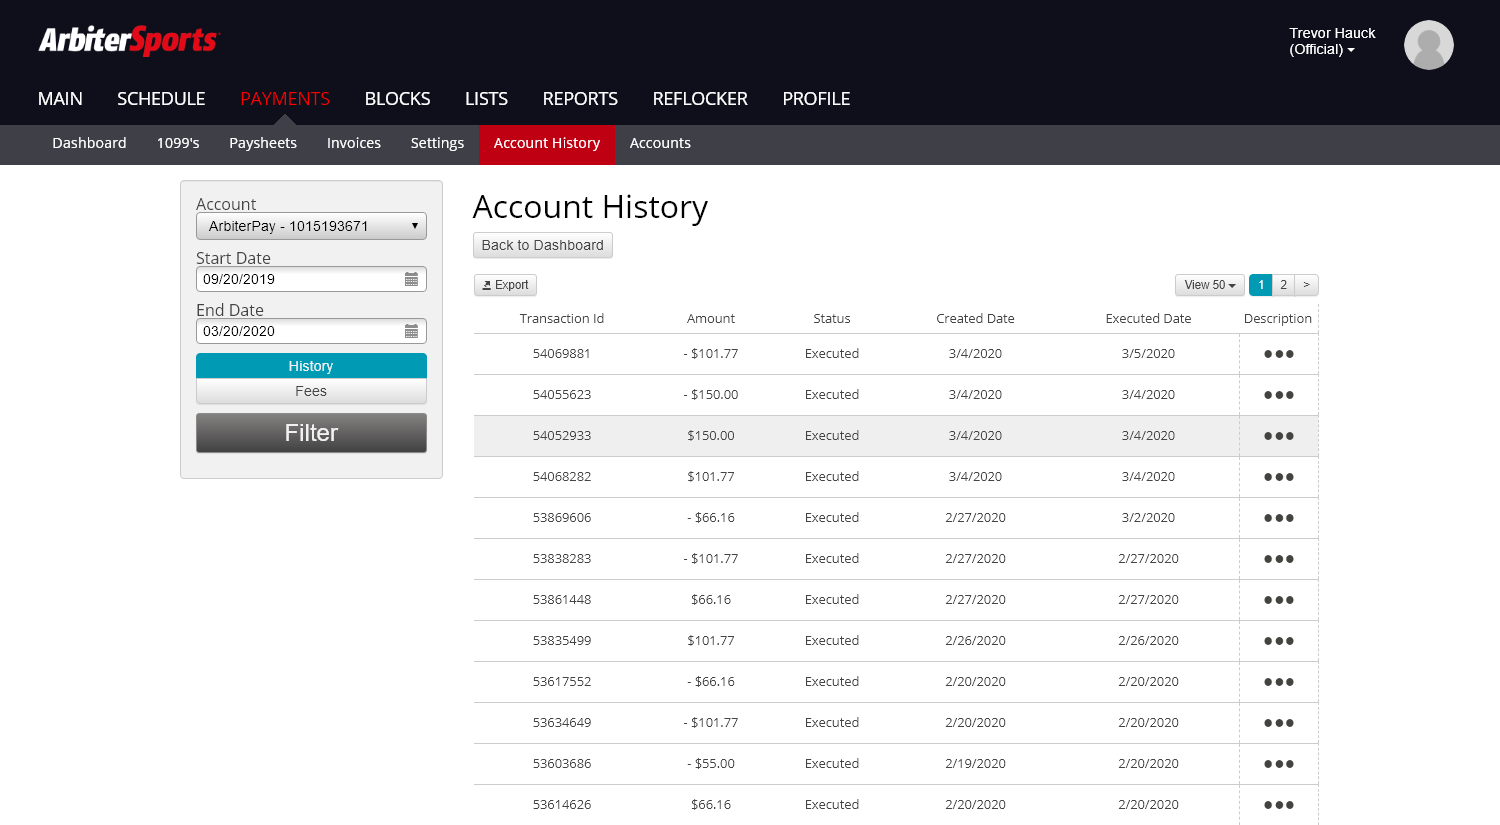
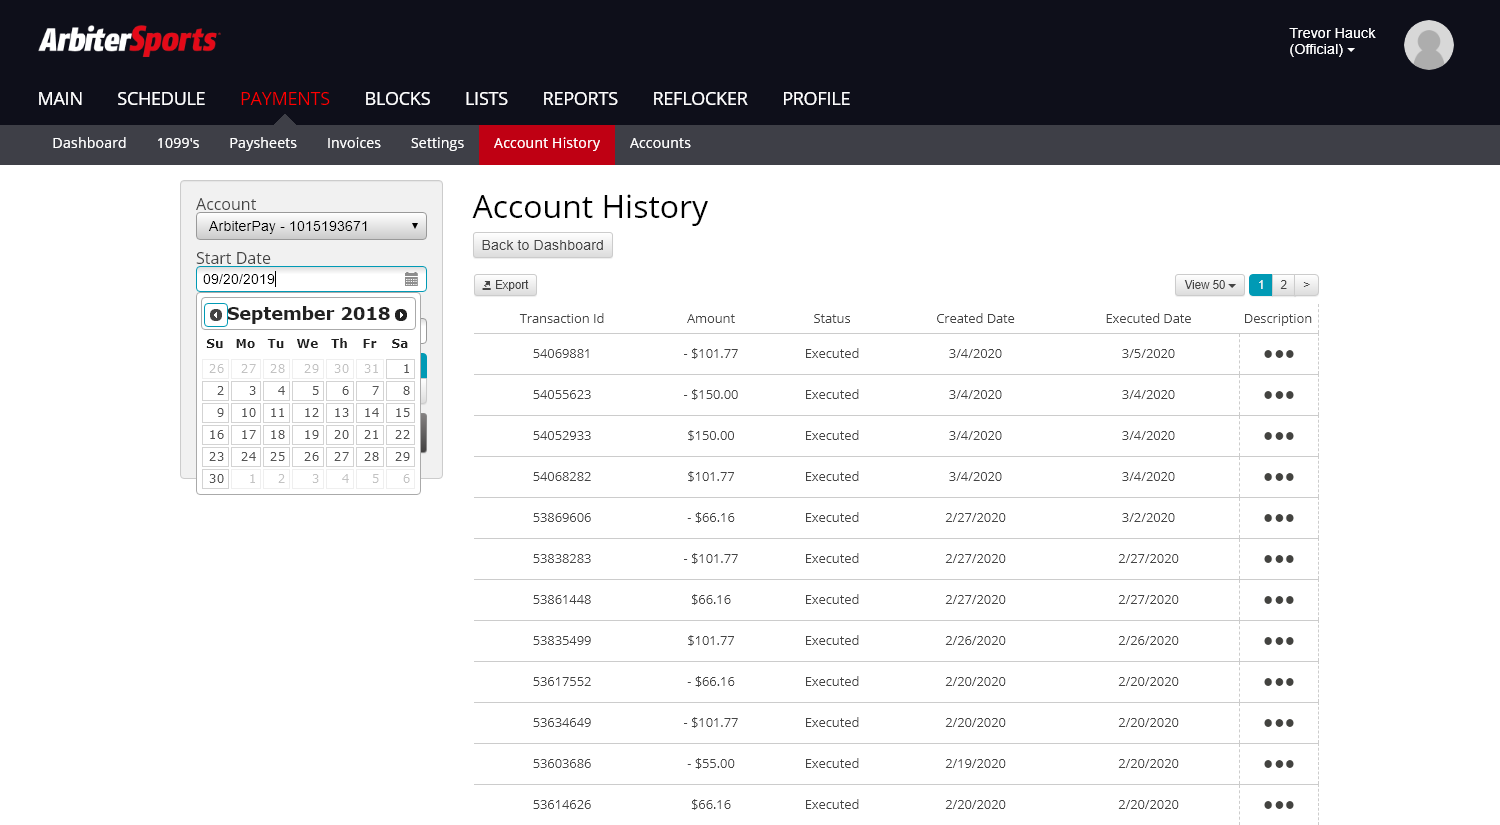
Iterates through every page in the payments. Updated all the games that were sent through the Arbiter as paid. Getting a parallel save error though, that will be fixed next push

Changed region(s): [[0.1227, 0.3333, 0.3067, 0.6061]]

diff --git a/server/src/routers/arbiter/payments.js b/server/src/routers/arbiter/payments.js
@@ -3,8 +3,6 @@ const router = new express.Router()
 const puppeteer = require('puppeteer')
 const Game = require('../../models/Game')
 const auth = require('../../middleware/auth')
-const addGamesFromArray = require('../../utils/addGamesFromArray')
-
 
 const parseHTML = async (html) => {
     let payData = html
@@ -33,21 +31,29 @@ const parseHTML = async (html) => {
         })
         // console.log(eachGame)
     }
-    eachPaymentArrOfObj = eachPaymentArrOfObj.filter((payment) => {
-        if(!payment.amount.includes('-')){
-            return payment
-        }
-    })
+    // eachPaymentArrOfObj = eachPaymentArrOfObj.filter((payment) => {
+    //     if(!payment.amount.includes('-')){
+    //         return payment
+    //     }
+    // })
     
     return eachPaymentArrOfObj
+}
+const trimHtmlData = async (html) => {
+    html = html.split('account-history-rows')
+    html = html.splice(1)
+    html = html[0].split('</tbody>').shift()
+    html = html.split('</td>').join('').split('<td>').join('').split('</tr>').join('').split('<tr class="child">').join('').split('<tr class="parent">').join('')
+    html = html.split('<td class="action"><i class="icon-more"></i>').join('').split('<td colspan="7">').join('').split(/\n/)
+    return html
 }
 
 const getArbiterPaymentData = async (email, pass) => {
     const browser = await puppeteer.launch({
-        // headless: false,
-        // args: [
-        //     '--window-size=1500,825'
-        // ]
+        headless: true,
+        args: [
+            '--window-size=1500,825'
+        ]
     })
     const page = await browser.newPage()
     await page.setViewport({
@@ -61,35 +67,78 @@ const getArbiterPaymentData = async (email, pass) => {
     await page.click('#txtPassword')
     await page.keyboard.type(pass)
     await page.click('#ctl00_ContentHolder_pgeSignIn_conSignIn_btnSignIn')
-    await page.content()
+    await page.waitFor(500)
     if(page.url() === 'https://www1.arbitersports.com/shared/signin/signin.aspx') {
         return { error: "Invalid Login"}
     }
     await page.waitFor(500)
     await page.click('#mobileAlertStayLink')
-    await page.screenshot({path: './screenshotb4.png'})
+    await page.waitFor(500)
+    // await page.screenshot({path: './screenshotb4.png'})
 
-    await page.content()
+    await page.waitFor(500)
     await page.click('#ctl00_ContentHolder_pgeDefault_conDefault_dgAccounts_ctl02_lblType2')
-    await page.content()
+    await page.waitFor(500)
     await page.goto('https://www1.arbitersports.com/arbiterone/arbiterpay/dashboard')
-    await page.content()
+    await page.waitFor(500)
     await page.goto('https://www1.arbitersports.com/ArbiterOne/ArbiterPay/AccountHistory')
-    await page.content()
-    await page.waitFor(750)
+    await page.waitFor(500)
+    await page.screenshot({path: './screenshotb4.png'})
     await page.click('.as_pageSizer > button:nth-child(1)')
     await page.waitFor(750)
     await page.click('.as_pageSizer > ul:nth-child(2) > li:nth-child(6) > a:nth-child(1)')
     await page.waitFor(500)
+
+    // SET TIME FRAME
+    await page.click('#filter-startdate')
+    await page.waitFor(300)
+    await page.click('.ui-icon-circle-triangle-w')
+    await page.click('.ui-icon-circle-triangle-w')
+    await page.click('.ui-icon-circle-triangle-w')
+    await page.click('.ui-icon-circle-triangle-w')
+    await page.click('.ui-icon-circle-triangle-w')
+    await page.click('.ui-icon-circle-triangle-w')
+    await page.click('.ui-icon-circle-triangle-w')
+    await page.click('.ui-icon-circle-triangle-w')
+    await page.click('.ui-icon-circle-triangle-w')
+    await page.click('.ui-icon-circle-triangle-w')
+    await page.click('.ui-icon-circle-triangle-w')
+    await page.click('.ui-icon-circle-triangle-w')
     await page.screenshot({path: './screenshot.png'})
+    await page.click('.ui-datepicker-calendar > tbody:nth-child(2) > tr:nth-child(1) > td:nth-child(7) > a:nth-child(1)')
+    await page.click('button.large.dark')
+    await page.waitFor(500)
 
     let response = await page.content()
-    response = response.split('account-history-rows')
-    response = response.splice(1)
-    response = response[0].split('</tbody>').shift()
-    response = response.split('</td>').join('').split('<td>').join('').split('</tr>').join('').split('<tr class="child">').join('').split('<tr class="parent">').join('')
-    response = response.split('<td class="action"><i class="icon-more"></i>').join('').split('<td colspan="7">').join('').split(/\n/)
-    let data = parseHTML(response)
+    let trimmedData = await trimHtmlData(response)
+    
+    // DATA BECOMES AN ARRAY OF OBJECTS
+    let data = await parseHTML(trimmedData)
+
+    let nextPage;
+    let nxtPageTrimmed;
+    let nxtPageData;
+    let btnChild = 2
+    while(data.length % 50 === 0){
+        // SECOND PAGE
+        await page.click(`.as_pager > button:nth-child(${btnChild})`)
+        await page.waitFor(500)
+        nextPage = await page.content()
+        nxtPageTrimmed = await trimHtmlData(nextPage)
+        nxtPageData = await parseHTML(nxtPageTrimmed)
+
+        for(let i = 0; i < nxtPageData.length; i++){
+            data.push(nxtPageData[i])
+        }
+        btnChild += 1;
+    }
+    data = data.filter((game) => {
+        if(!game.amount.includes('-')){
+            return game
+        }
+    })
+    
+
     return data
 }
 const findGameIdMatch = async (currentSchedule, paymentData) => {
@@ -119,6 +168,7 @@ router.post('/api/arbiter/payments', auth, async (req, res) => {
         const paymentData = await getArbiterPaymentData(email, password)
         //currently returns all the payment data of games paid to me (PAGE 1 ONLY)
         let matchedGames = await findGameIdMatch(currentSchedule, paymentData)
+
         matchedGames.map((game) => {
             game.paid = true
             game.save()
